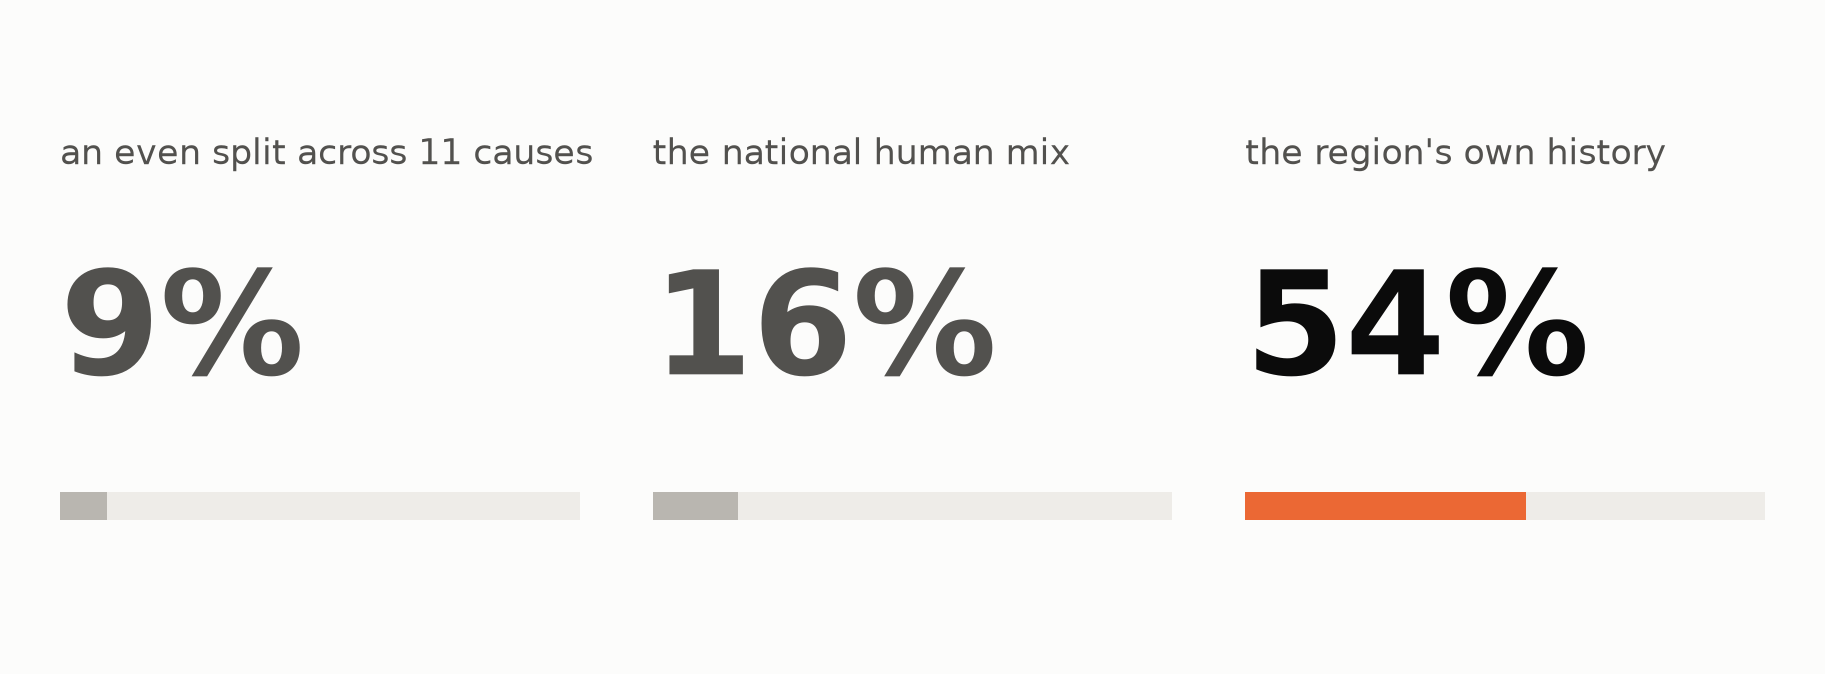
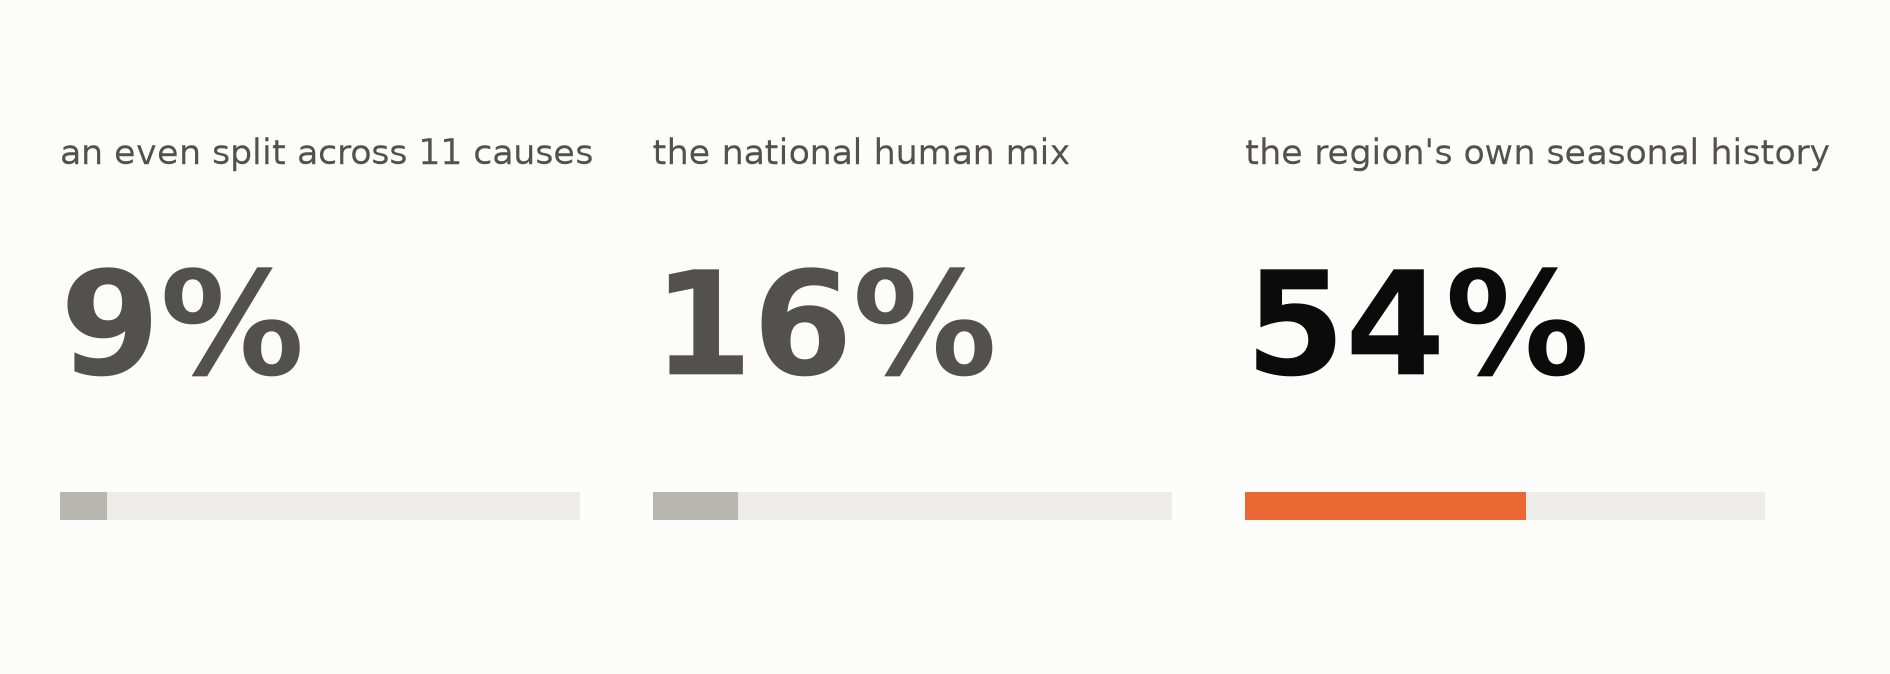
Label the baseline "seasonal history" on beats 3 and 5
"The region's own history" did not say that the series is per season.
TrailingMean groups by (region, season), so Klamath summer sees only prior
Klamath summers, and k=7 is seven prior same-season occurrences -- about
seven years back, not seven consecutive seasons.

Both Level III tile figures relabelled and regenerated; the scorer's
docstring records the grouping and why pooling seasons would be wrong
(beat 1's seasonality would average a human-dominated winter against a
lightning-dominated summer). Hex-grain ladders group by hex and keep their
wording.

Script SAY and EVIDENCE updated to match, with WATCH lines for "why not
pool all four seasons?" and for the k=7 consequence that the first seven
same-season years of each series are unpredictable.

diff --git a/src/w6_visuals.py b/src/w6_visuals.py
@@ -2214,6 +2214,14 @@ def tier1_baseline_scores(panel, *, k: int = 7, cfg=None) -> pd.DataFrame:
     * **national** -- the record's overall composition, applied to every cell
     * **naive** -- an uninformed 1/3 on each class
 
+    **"History" groups by `(region, season)`, so each season is its own series.**
+    Klamath summer sees only prior Klamath summers; k=7 is therefore seven prior
+    *same-season* occurrences -- about seven years back, not seven consecutive
+    seasons. The tile label says "seasonal history" rather than "history" for
+    that reason. Pooling the four seasons would average a region's
+    human-dominated winter against its lightning-dominated summer and predict
+    neither, which is beat 1's seasonality reappearing as a modelling error.
+
     `correct` is `1 - TVD`, which for two compositions on a simplex is exactly
     their overlap (the sum of elementwise minima). "Share of the composition
     placed on the right cause" is therefore a literal reading of the number, not
@@ -2244,7 +2252,7 @@ def tier1_baseline_scores(panel, *, k: int = 7, cfg=None) -> pd.DataFrame:
     def score(pred):
         return float(np.average(per_cell(pred), weights=w))
 
-    rows = [("the region's own history", "history", score(hist)),
+    rows = [("the region's own seasonal history", "history", score(hist)),
             ("the national average mix", "national", score(national)),
             ("an even split across causes", "naive", score(naive))]
     out = pd.DataFrame(rows, columns=["label", "key", "tvd"]).set_index("key")
@@ -2469,7 +2477,7 @@ def human_subcause_scores(panel, *, k: int | None = None, cfg=None) -> pd.DataFr
 
     national = np.tile(prior, (len(hc), 1))
     rows = [
-        ("the region's own history", "history", hit(pred), tvd(pred)),
+        ("the region's own seasonal history", "history", hit(pred), tvd(pred)),
         ("the national human mix", "national", hit(national), tvd(national)),
         ("an even split across 11 causes", "chance", 1 / len(cols), np.nan),
     ]

diff --git a/coursework/W7/final_script.md b/coursework/W7/final_script.md
@@ -120,7 +120,7 @@ Each slide below carries four blocks:
 
 > The mix is three classes splitting a region-season's burned acres — **natural**, **human**, and **unknown**, the ones whose cause was never determined. By acres, nationally: fifty-nine, twenty-three, eighteen. **Everything in this deck is weighted by acres, not by number of fires** — by fire count those first two numbers almost exactly swap.
 >
-> Three ways to predict that mix, worst to best. The national average mix — forty-two percent of the acres land on the right cause. An even split: fifty-two. That region's own recent history: seventy-three.
+> Three ways to predict that mix, worst to best. The national average mix — forty-two percent of the acres land on the right cause. An even split: fifty-two. That region's own seasonal history — its own past summers, or winters — seventy-three.
 >
 > Those are averages, and the range under each is the honest part: history runs sixty to ninety across region-seasons, the national average down to twenty. **And we can tell in advance which end a region-season lands on** — a place whose history has been settled forecasts well; one that's been swinging doesn't.
 >
@@ -128,7 +128,7 @@ Each slide below carries four blocks:
 
 **EVIDENCE**
 
-- Three tiles, worst to best: national average mix 42%, an even split 52%, the region's own history 73%.
+- Three tiles, worst to best: national average mix 42%, an even split 52%, the region's own seasonal history 73%.
 - Acre-weighted TVD 0.580 / 0.485 / 0.266, forward-chained on 2010+, 3,949 held-out region-seasons.
 - Tier-1 classes and their full-record acre shares: **Natural 58.9%, Human 22.7%, Unknown 18.5%**, on a total-acres denominator (resolved + missing) so the three sum to 1.
 
@@ -137,6 +137,8 @@ Each slide below carries four blocks:
 - Do NOT say "right 73% of the time." 73% is an error magnitude (1 - TVD), not a hit rate — there is no "of the time" to attach it to.
 - 72.7% top-1 agreement is a different number that DOES mean "of the time." Only use that phrasing if the slide on screen shows top-1.
 - **Confirmed: these tiles plot 1 − TVD, an error magnitude. Beats 5 and 6 use the same three-tile visual but plot top-1 hit rates.** Same look, different quantity — so "of the time" is wrong here and right there. If asked to compare the 73% with beat 5's 54%, say they are not on the same scale.
+- **"Seasonal history" means each season is its own series.** The grouping is `(region, season)`, so Klamath summer sees only prior Klamath summers — and **k=7 is seven prior *same-season* occurrences, about seven years back, not seven consecutive seasons.** Say "its own past summers" if the room looks unsure. If challenged "why not pool all four seasons?": beat 1 is the answer — seasonality is the strongest signal in the record, so pooling would average a region's human-dominated winter against its lightning-dominated summer and predict neither.
+- Consequence worth knowing: with k=7 the first seven same-season years of every series are unpredictable, which together with the 2010 split is why the held-out population is 3,949 cells rather than all 10,135.
 - **The span under each tile is a spread across region-seasons, NOT a confidence interval.** Say "typical range" or "where individual region-seasons land," never "plus or minus" or "we're 50% confident." Acre-weighted p25–p75, matching the headline's weighting: history **58–91%**, national **21–61%**, even split **36–67%**.
 - **The national tile's low end is the argument.** Its 42% is not a middling result evenly spread — the first quartile reaches down to 21%. That is beat 2's bimodality returning as forecast error: a national average describes almost no individual region.
 - **If asked "so which ones land at the bottom?"** — that is answered, and it is the strongest unpublished result in the project. A cell's own **pre-season** history dispersion predicts its error: Spearman **+0.484** here and **+0.577** on the human branch, **33 and 35 SD** above a shuffled control, holding *within* individual regions (74/93 and 80/92 series positive). By quartile of pre-season dispersion, accuracy runs **83% → 62%** on Tier 1 and **73% → 39%** on Human. `06_analysis.ipynb`, final section.
@@ -161,12 +163,12 @@ Each slide below carries four blocks:
 >
 > And that ranking isn't the obvious one. Debris burning starts the most fires of any human cause; it's only third in acres. Equipment starts a third as many and burns more. **What's worth preventing isn't what starts most often.**
 >
-> Same three predictors, one level down. An even guess across eleven names the top cause by acres nine percent of the time; the national human mix, sixteen; that region's own history — fifty-four.
+> Same three predictors, one level down. An even guess across eleven names the top cause by acres nine percent of the time; the national human mix, sixteen; that region's own seasonal history — fifty-four.
 
 **EVIDENCE**
 
 - Same three tiles as beat 3, one level deeper: how often the predicted leading human sub-cause is right out of 11.
-- An even split 9%, the national human mix 16%, the region's own history 54%.
+- An even split 9%, the national human mix 16%, the region's own seasonal history 54%.
 - Acre-weighted TVD 0.489 against the national mix's 0.643; 3,850 held-out region-seasons.
 - The 11 sub-causes by national acre share: **arson 26.5%, equipment and vehicle use 24.4%, debris and open burning 19.2%**, recreation and ceremony 11.4%, power generation/transmission 8.6%, railroads 2.3%, smoking 2.3%, firearms and explosives 1.6%, fireworks 1.3%, misuse of fire by a minor 1.2%, other 1.1%. 40.6M human acres.
 - **Counts rank differently from acres:** debris burning starts 535,832 fires (the most of any human cause) but is third in acres; equipment starts 190,253 — about a third as many — and burns more. Verified from `fires_clean.parquet`.
